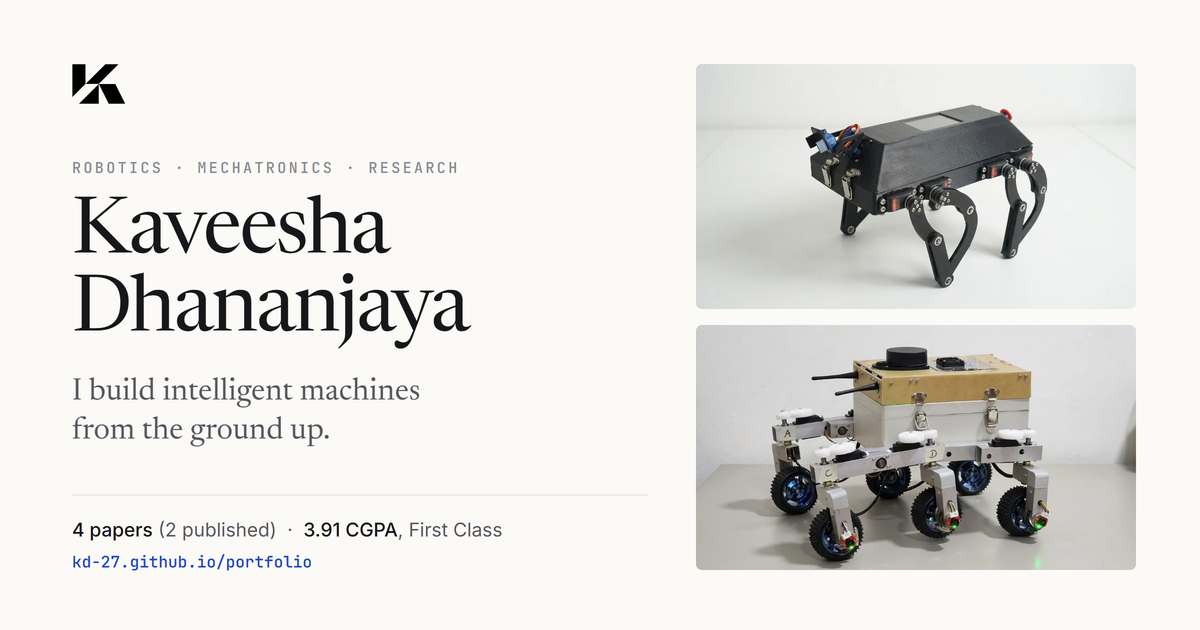
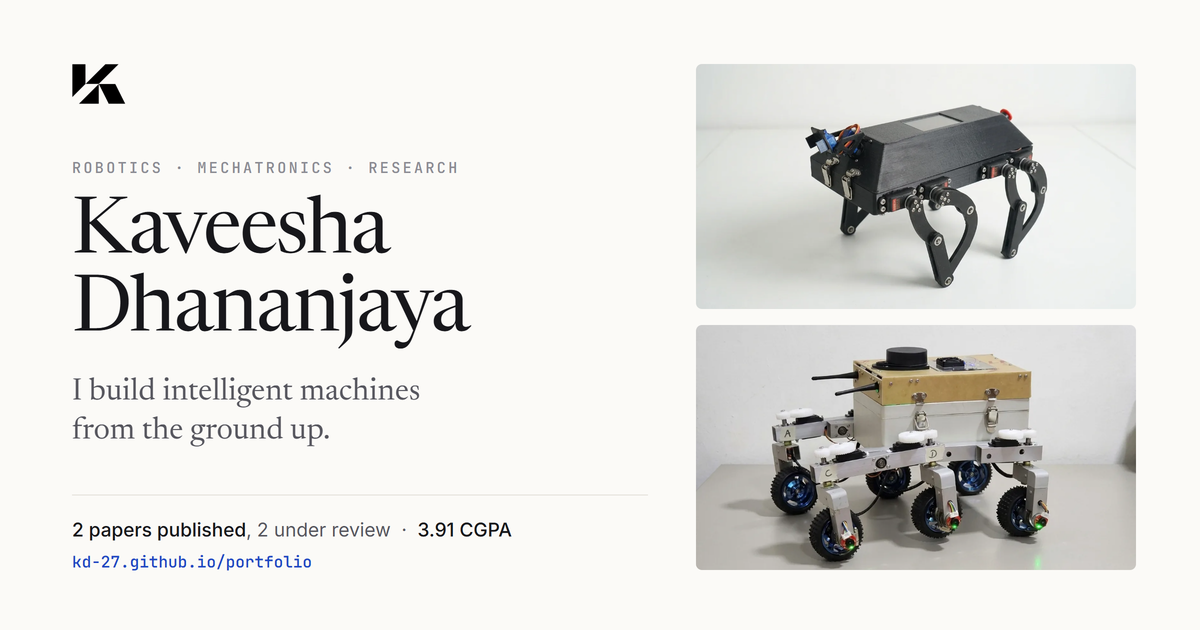
Show published and under-review papers separately; rename to University projects
Hero stats, Publications count line and the link preview card no longer lead with a total of 4.

Changed region(s): [[0.0617, 0.8143, 0.4317, 0.8746]]

diff --git a/src/components/Intro.tsx b/src/components/Intro.tsx
@@ -9,22 +9,14 @@ const LINKS = [
   { label: 'LinkedIn', href: SOCIAL_LINKS.linkedin },
 ];
 
-// Under-review papers count towards the total, so the label says how many are out
-const published = RESEARCH_PAPERS.filter((p) => p.date.toLowerCase() !== 'under review').length;
+// Published and under-review papers are counted separately so neither reads as the other
+const underReview = RESEARCH_PAPERS.filter((p) => p.date.toLowerCase() === 'under review').length;
 
+// `short` is used in the cramped phone row next to the CV button
 const STATS = [
-  {
-    value: String(RESEARCH_PAPERS.length),
-    // Two clean lines on phones ("Papers" / "2 published"), one line from md up
-    label: (
-      <>
-        Papers<span className="hidden md:inline"> · </span>
-        <br className="md:hidden" />
-        {published}&nbsp;published
-      </>
-    ),
-  },
-  { value: '3.91', label: 'CGPA, First Class' },
+  { value: String(RESEARCH_PAPERS.length - underReview), label: 'Papers published', short: 'Published' },
+  { value: String(underReview), label: 'Under review', short: 'In review' },
+  { value: '3.91', label: 'CGPA, First Class', short: 'CGPA' },
 ];
 
 const CvButton: React.FC<{ className?: string }> = ({ className = '' }) => (
@@ -74,8 +66,8 @@ const Intro: React.FC = () => {
           <div className="mt-6 flex items-center gap-5 border-y border-rule py-3.5 md:hidden">
             <dl className="flex items-start gap-5">
               {STATS.map((stat) => (
-                <div key={stat.value} className="flex flex-col-reverse items-center text-center">
-                  <dt className="mt-1 text-[11px] leading-tight text-muted">{stat.label}</dt>
+                <div key={stat.label} className="flex flex-col-reverse items-center text-center">
+                  <dt className="mt-1 text-[11px] leading-tight text-muted">{stat.short}</dt>
                   <dd className="font-serif text-[1.7rem] leading-none tracking-tight text-ink">{stat.value}</dd>
                 </div>
               ))}
@@ -129,9 +121,9 @@ const Intro: React.FC = () => {
           />
 
           {/* Headline figures sit right under the photo so they're visible without scrolling */}
-          <dl className="mt-5 grid grid-cols-2 border-y border-rule">
+          <dl className="mt-5 grid grid-cols-3 border-y border-rule">
             {STATS.map((stat, i) => (
-              <div key={stat.value} className={`flex flex-col-reverse items-center py-4 text-center ${i > 0 ? 'border-l border-rule' : ''}`}>
+              <div key={stat.label} className={`flex flex-col-reverse items-center justify-end py-4 text-center ${i > 0 ? 'border-l border-rule' : ''}`}>
                 <dt className="mt-2 text-xs leading-snug text-muted">{stat.label}</dt>
                 <dd className="font-serif text-4xl leading-none tracking-tight text-ink">{stat.value}</dd>
               </div>

diff --git a/media-originals/og/card.html b/media-originals/og/card.html
@@ -23,7 +23,7 @@ h1{margin-top:20px;font:400 78px/1.0 'Newsreader',serif;letter-spacing:-.025em}
     <h1>Kaveesha<br>Dhananjaya</h1>
     <p class="tag">I build intelligent machines<br>from the ground up.</p>
     <div class="foot">
-      <p class="stats"><b>4 papers</b> (2 published) &nbsp;·&nbsp; <b>3.91 CGPA</b>, First Class</p>
+      <p class="stats"><b>2 papers published</b>, 2 under review &nbsp;·&nbsp; <b>3.91 CGPA</b></p>
       <p class="url">kd-27.github.io/portfolio</p>
     </div>
   </div>

diff --git a/src/components/Research.tsx b/src/components/Research.tsx
@@ -110,7 +110,7 @@ const Research: React.FC = () => {
   return (
     <Section id="research" label="Research" title="Publications">
       <p className="-mt-6 mb-8 md:mb-10 text-sm text-muted">
-        {RESEARCH_PAPERS.length} papers · {RESEARCH_PAPERS.length - underReview} published · {underReview} under review
+        {RESEARCH_PAPERS.length - underReview} published · {underReview} under review
       </p>
       <ol className="divide-y divide-rule">
         {RESEARCH_PAPERS.map((paper) => (

diff --git a/src/components/Projects.tsx b/src/components/Projects.tsx
@@ -306,7 +306,7 @@ const Projects: React.FC = () => {
   };
 
   return (
-    <Section id="projects" label="Projects" title="Selected projects">
+    <Section id="projects" label="Projects" title="University projects">
       <div
         ref={railRef}
         onScroll={onRailScroll}
